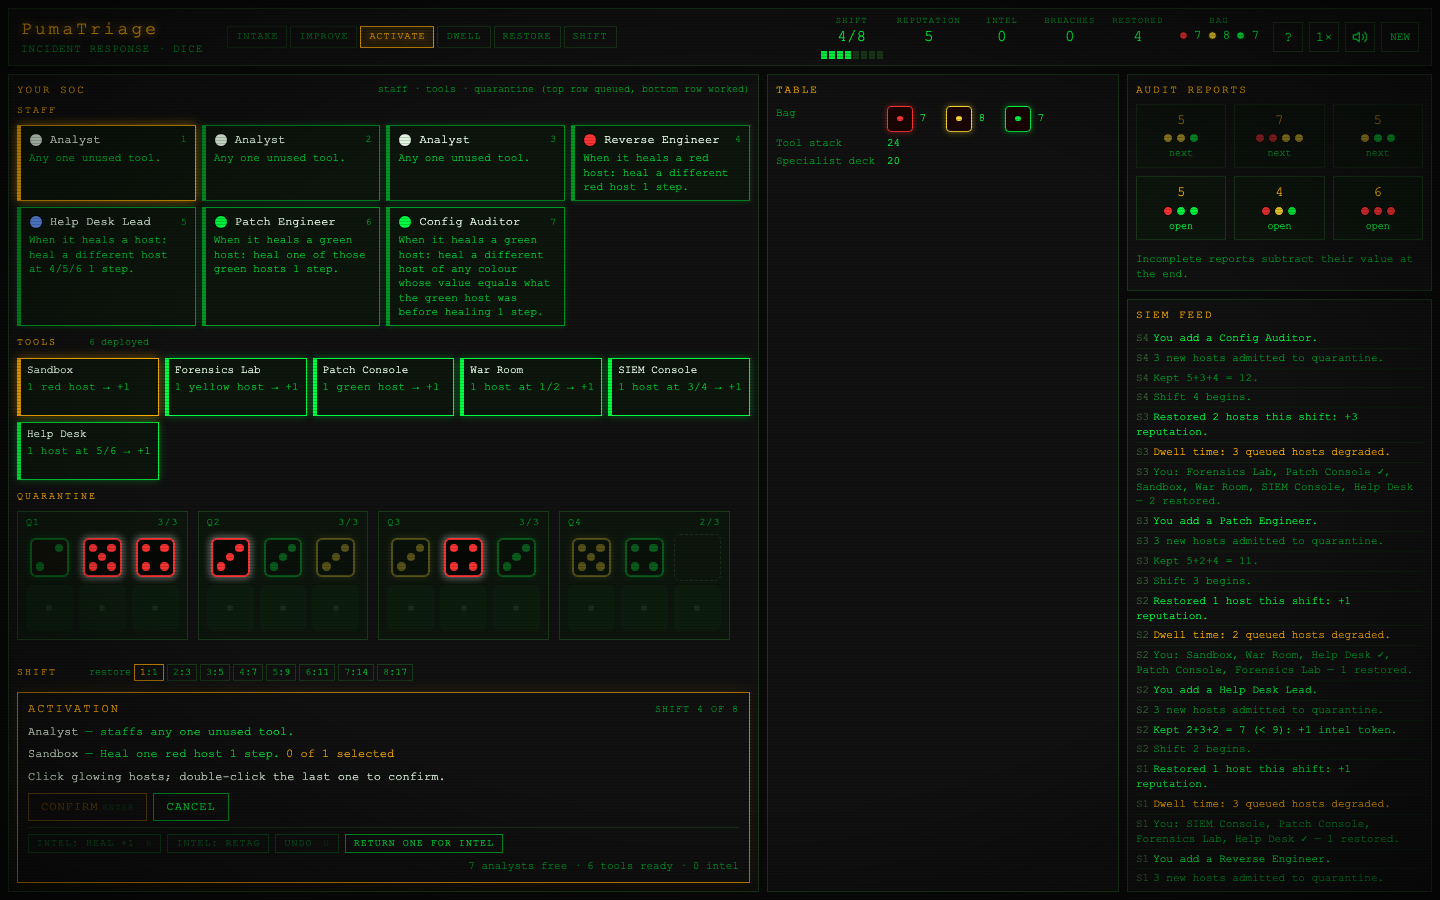
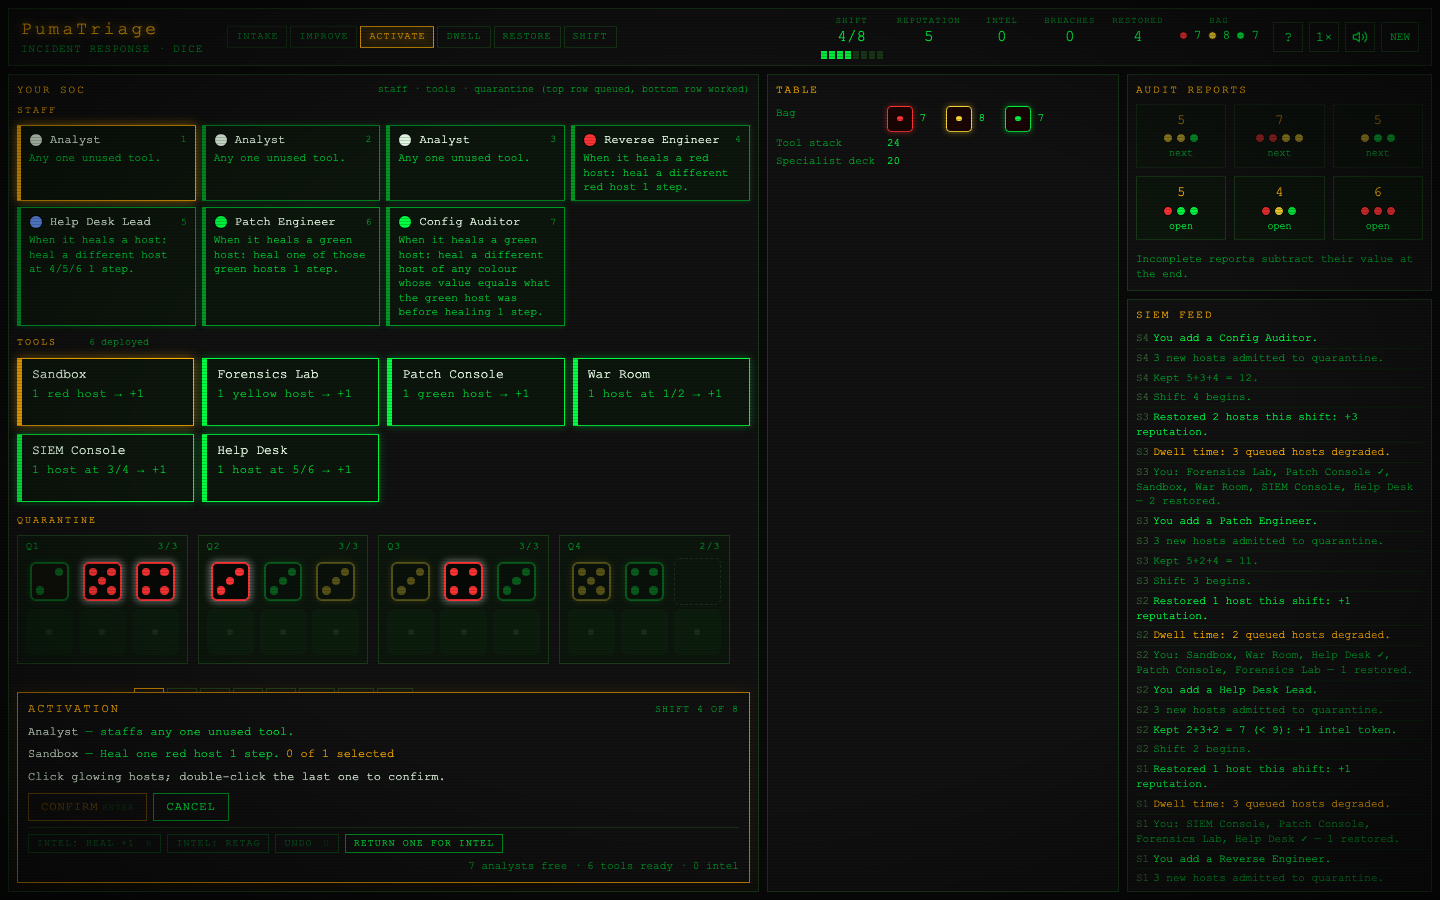
Bigger tool tiles to match the staff cards and dice

Changed region(s): [[0.0, 0.3733, 0.5, 0.6844], [0.0938, 0.7156, 0.2812, 0.7778]]

diff --git a/index.html b/index.html
@@ -218,14 +218,14 @@ body::after {
 .board-row .lbl { font-size: 10px; letter-spacing: 2px; color: var(--amber); text-transform: uppercase; min-width: 64px; }
 
 #staff { display: grid; grid-template-columns: repeat(auto-fill, minmax(160px, 1fr)); gap: 6px; margin-bottom: 10px; }
-#depts { display: grid; grid-template-columns: repeat(auto-fill, minmax(118px, 1fr)); gap: 6px; margin-bottom: 10px; }
+#depts { display: grid; grid-template-columns: repeat(auto-fill, minmax(172px, 1fr)); gap: 8px; margin-bottom: 12px; }
 .dept-tile {
-  border: 1px solid var(--border); border-left: 4px solid var(--border); background: var(--panel-2);
-  padding: 5px 6px; min-height: 58px; position: relative; cursor: default; transition: box-shadow .2s, border-color .2s;
+  border: 1px solid var(--border); border-left: 5px solid var(--border); background: var(--panel-2);
+  padding: 8px 10px; min-height: 68px; position: relative; cursor: default; transition: box-shadow .2s, border-color .2s;
   display: flex; flex-direction: column; justify-content: space-between;
 }
-.dept-tile .dn { font-size: 11px; color: var(--white); line-height: 1.2; }
-.dept-tile .dr { font-size: 11px; color: var(--green-dim); margin-top: 3px; letter-spacing: 0.3px; }
+.dept-tile .dn { font-size: 13px; color: var(--white); line-height: 1.2; }
+.dept-tile .dr { font-size: 12px; color: var(--green-dim); margin-top: 4px; letter-spacing: 0.3px; }
 .dept-tile.tag-red    { border-left-color: var(--red); }
 .dept-tile.tag-yellow { border-left-color: var(--yellow); }
 .dept-tile.tag-green  { border-left-color: var(--green); }
@@ -235,12 +235,12 @@ body::after {
 .dept-tile.can:hover { background: rgba(0,255,65,0.08); }
 .dept-tile.sel { border-color: var(--amber); box-shadow: 0 0 10px rgba(255,176,0,0.5); }
 .dept-tile.used { opacity: 0.45; }
-.dept-tile.used::after { content: "USED"; position: absolute; right: 4px; top: 3px; font-size: 8px; color: var(--amber); letter-spacing: 1px; }
+.dept-tile.used::after { content: "USED"; position: absolute; right: 6px; top: 5px; font-size: 9px; color: var(--amber); letter-spacing: 1px; }
 .dept-tile.disabled { opacity: 0.35; border-style: dashed; }
 .dept-tile.returnable { border-color: var(--amber); cursor: pointer; }
 .dept-tile.new { animation: tile-in .4s var(--ease-out-quart); }
 @keyframes tile-in { 0% { opacity: 0; transform: scale(0.85); } 100% { opacity: 1; transform: scale(1); } }
-.dept-tile .meep-on { position: absolute; right: 4px; bottom: 4px; }
+.dept-tile .meep-on { position: absolute; right: 6px; bottom: 6px; width: 12px; height: 12px; }
 
 .meeple {
   display: flex; flex-direction: column; gap: 3px; padding: 6px 8px; border: 1px solid var(--border); border-left: 4px solid var(--border);
